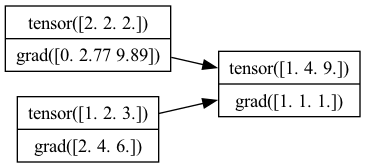
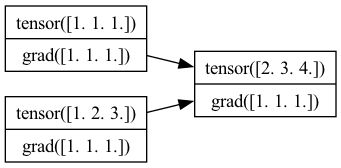
support for __pow__(x: Tensor)

Changed region(s): [[0.0, 0.0298, 0.9971, 0.9821]]

diff --git a/main.py b/main.py
@@ -3,6 +3,6 @@ import graph
 
 a = Tensor([1,2,3])
 b = Tensor([1,1,1])
-c = a**2
+c = a + b
 c.backward()
 graph.draw_dot(c, format="png").render(filename="img/graph")
